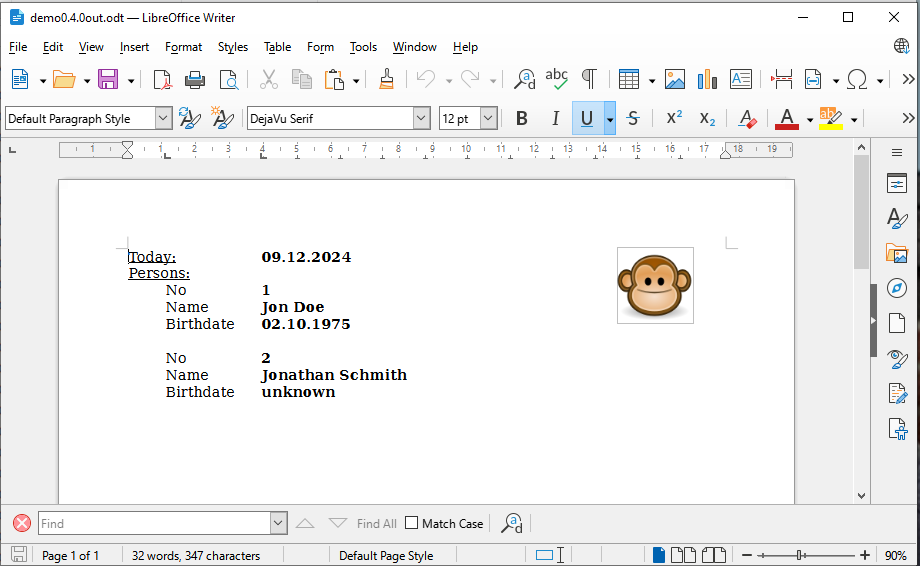
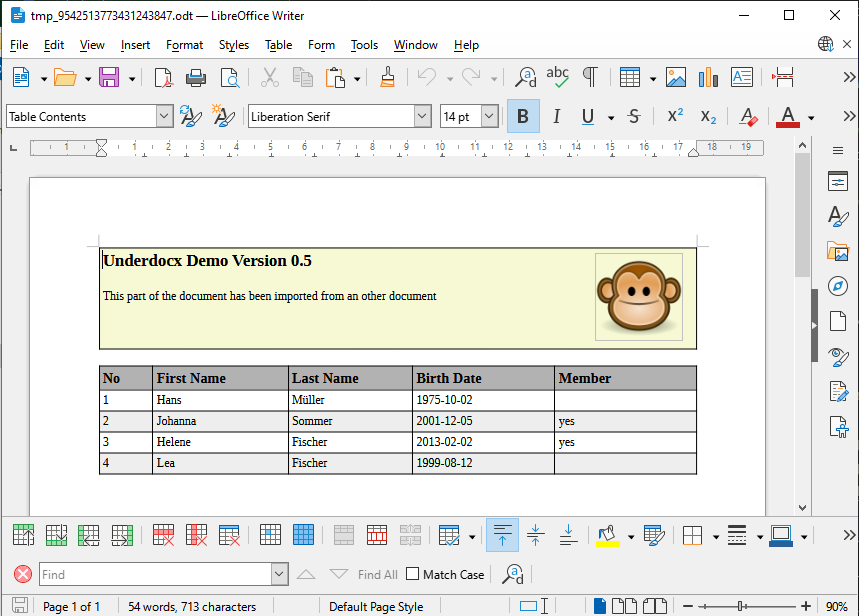
change description for demo 0.5

diff --git a/README.md b/README.md
@@ -12,7 +12,7 @@ which features are already available and will be released in the future.
 ## Demo
 
 Here is a example to load and manipulate a LibreOffice document with multiple placeholders.
-The first placeholder simply formats and prints out the current date.
+The first placeholder imports an other sub document.
 The second placeholder defines a variable "data" that contains a list of persons. A Loop
 iterates over these persons and prints out their position and data if available.
 
@@ -23,7 +23,7 @@ Run this code to exchange the placeholders
 ```java
 OdtContainer doc = new OdtContainer(is);
 DefaultODTEngine engine = new DefaultODTEngine(doc);
-engine.registerSimpleDollarImageReplacement("image", imageURL, true);
+engine.pushVariable("header", new LeafModelNode<>(readData("header.odt")));
 engine.run();
 doc.save(os);
 ```
